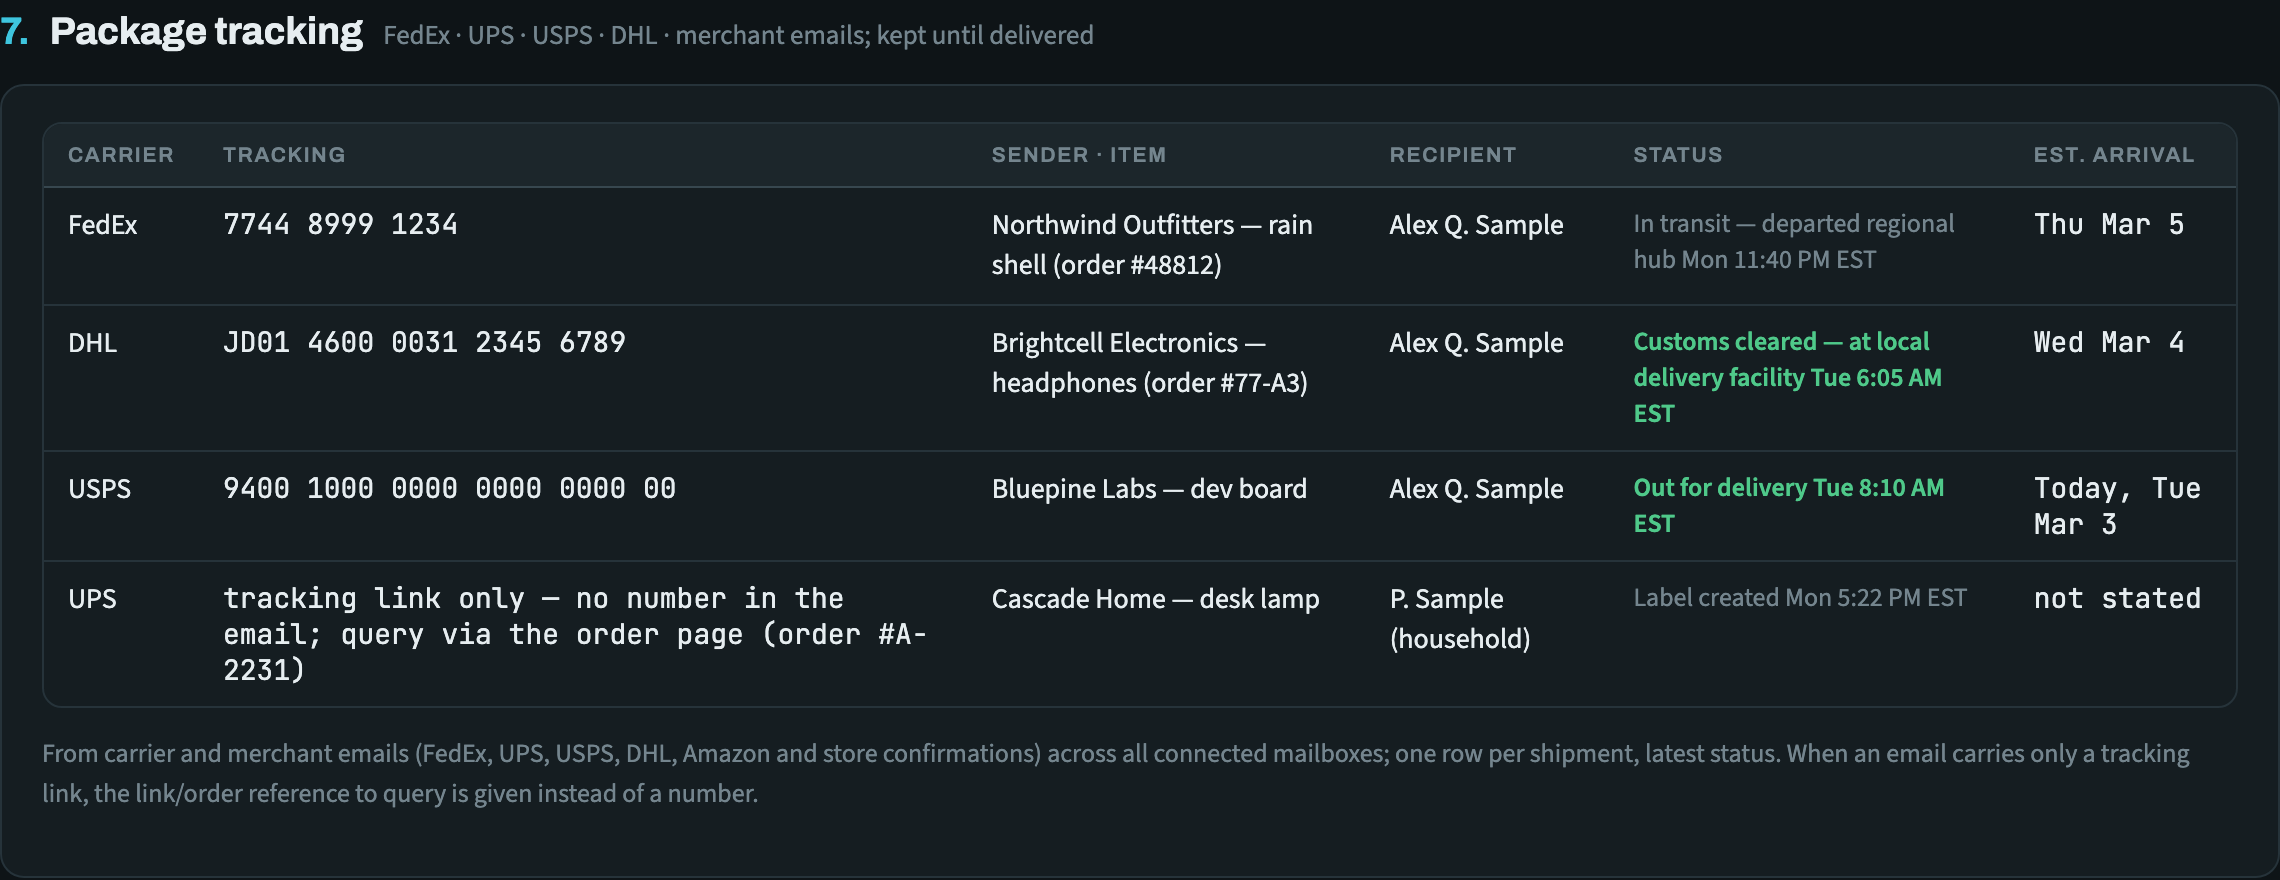
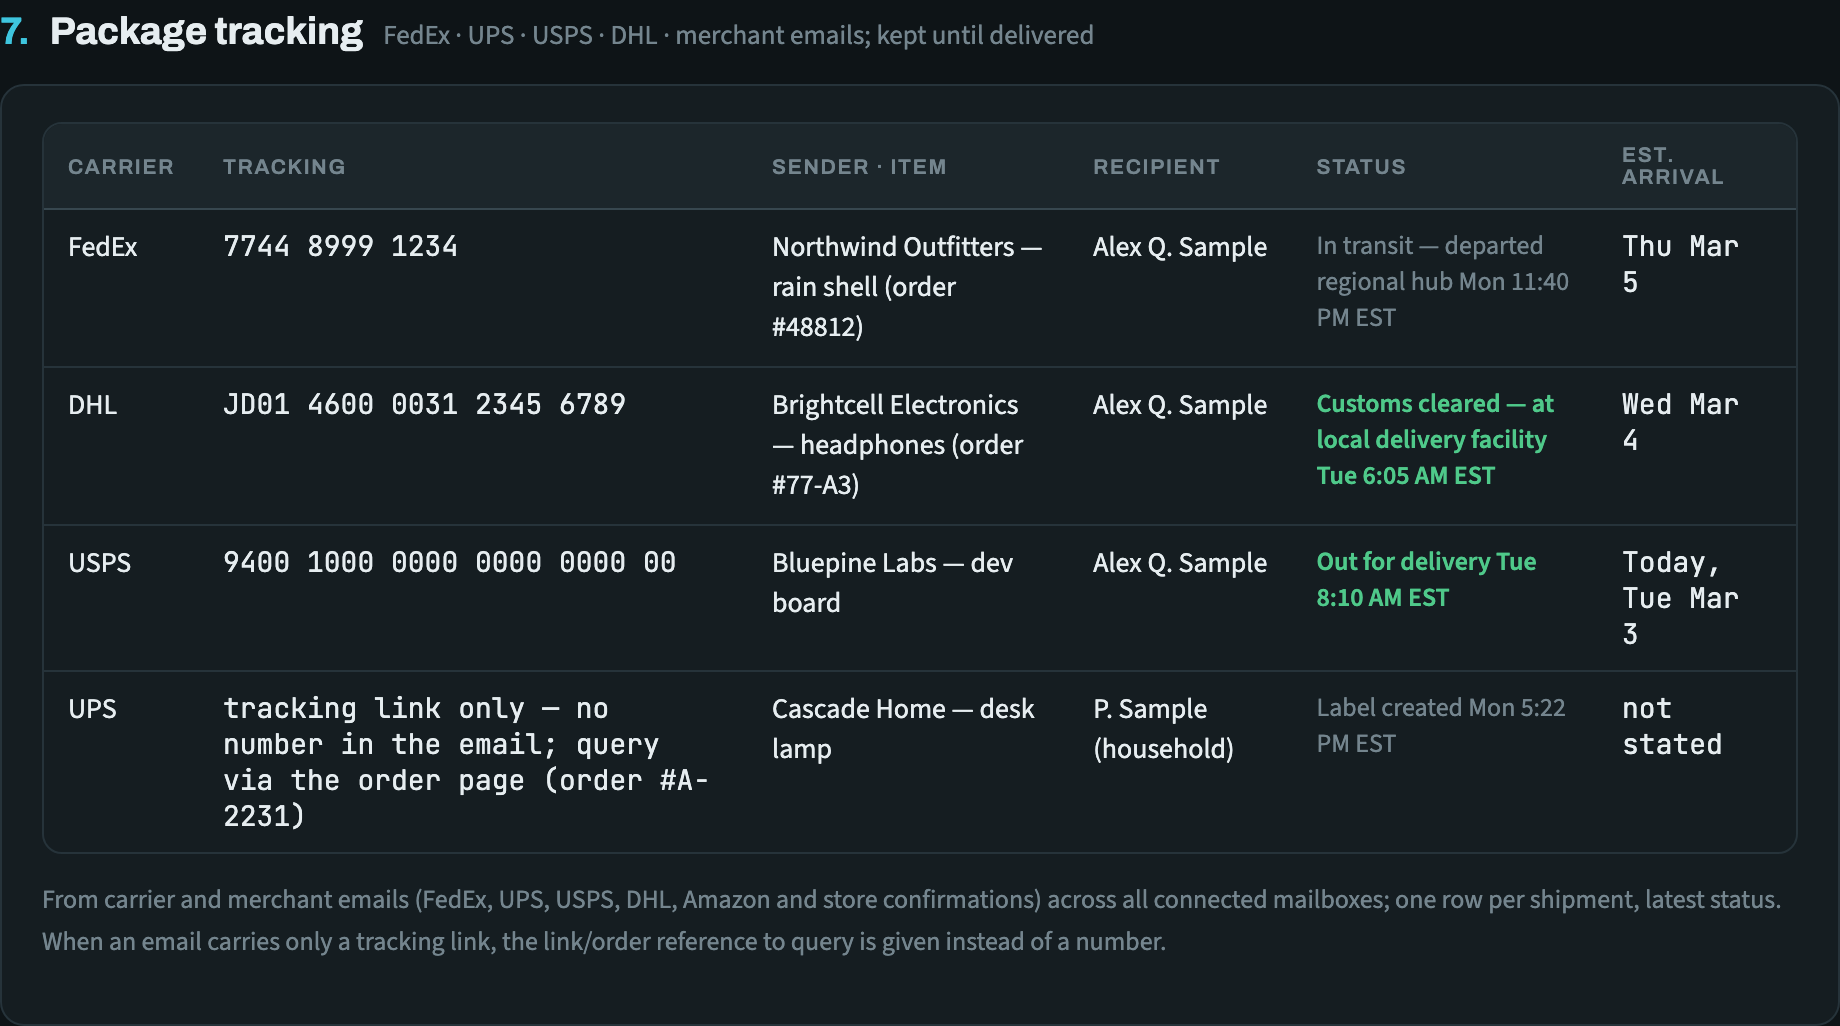
Capture README screenshots at 960px so the text is legible
GitHub scales every README image down to its ~880px column. At a 1180px
capture that put 15.5px body text on screen at about 11.6px - too small to
read. Capturing at 960px renders it ~23% larger (~14.2px) without touching
the brief: the page's own sizes are pinned and unchanged, so
docs/screenshots.lock is identical.

960px is the narrowest safe width. The page switches to its phone layout at
940px, and at 960px it measures no page overflow and no table scrolling
sideways - a scrolled table would be cut off in an element screenshot.

255 tests, browser suite included: layout, overflow at 320-1280px, axis
alignment and the screenshot lock all pass against the new captures.

diff --git a/docs/render_screenshots.py b/docs/render_screenshots.py
@@ -46,6 +46,9 @@ def _write_lock(page_path):
         fh.write(LOCK_HEADER + f"sha256 = {digest}\n")
 
 
+CAPTURE_WIDTH = 960
+
+
 async def main():
     from playwright.async_api import async_playwright
     with tempfile.TemporaryDirectory() as td:
@@ -55,13 +58,18 @@ async def main():
         page_html = next(os.path.join(td, f) for f in os.listdir(td) if f.startswith("morning-brief"))
         async with async_playwright() as p:
             b = await p.chromium.launch(executable_path=os.environ.get("BRIEF_CHROMIUM", "/opt/pw-browsers/chromium") if os.path.exists(os.environ.get("BRIEF_CHROMIUM", "/opt/pw-browsers/chromium")) else None)
-            pg = await b.new_page(viewport={"width": 1180, "height": 1000}, color_scheme="dark", device_scale_factor=2)
+            # Capture width sets how large the text reads in the README: GitHub
+            # scales every image down to its ~880px column, so a 1180px capture
+            # showed 15.5px body text at ~11.6px. 960px renders it ~23% larger
+            # while staying above the 940px breakpoint - the desktop layout, with
+            # no table scrolling (measured). The brief's own sizes are unchanged.
+            pg = await b.new_page(viewport={"width": CAPTURE_WIDTH, "height": 1000}, color_scheme="dark", device_scale_factor=2)
             await pg.goto("file://" + page_html)
             await pg.wait_for_timeout(1500)  # let fonts settle
             # Top: masthead + action bar
             bar = await pg.query_selector("main > div, .actions, body")
             h = await pg.evaluate("() => { const s = document.querySelectorAll('section'); return s.length > 1 ? s[1].getBoundingClientRect().top + window.scrollY : 1200; }")
-            await pg.screenshot(path=os.path.join(DOCS, "mock-brief-top.png"), clip={"x": 0, "y": 0, "width": 1180, "height": min(int(h), 2200)})
+            await pg.screenshot(path=os.path.join(DOCS, "mock-brief-top.png"), clip={"x": 0, "y": 0, "width": CAPTURE_WIDTH, "height": min(int(h), 2200)})
             # Section 1: relevant job posts (ranked table with badges + legend)
             secs = await pg.query_selector_all("section")
             jobs = None
